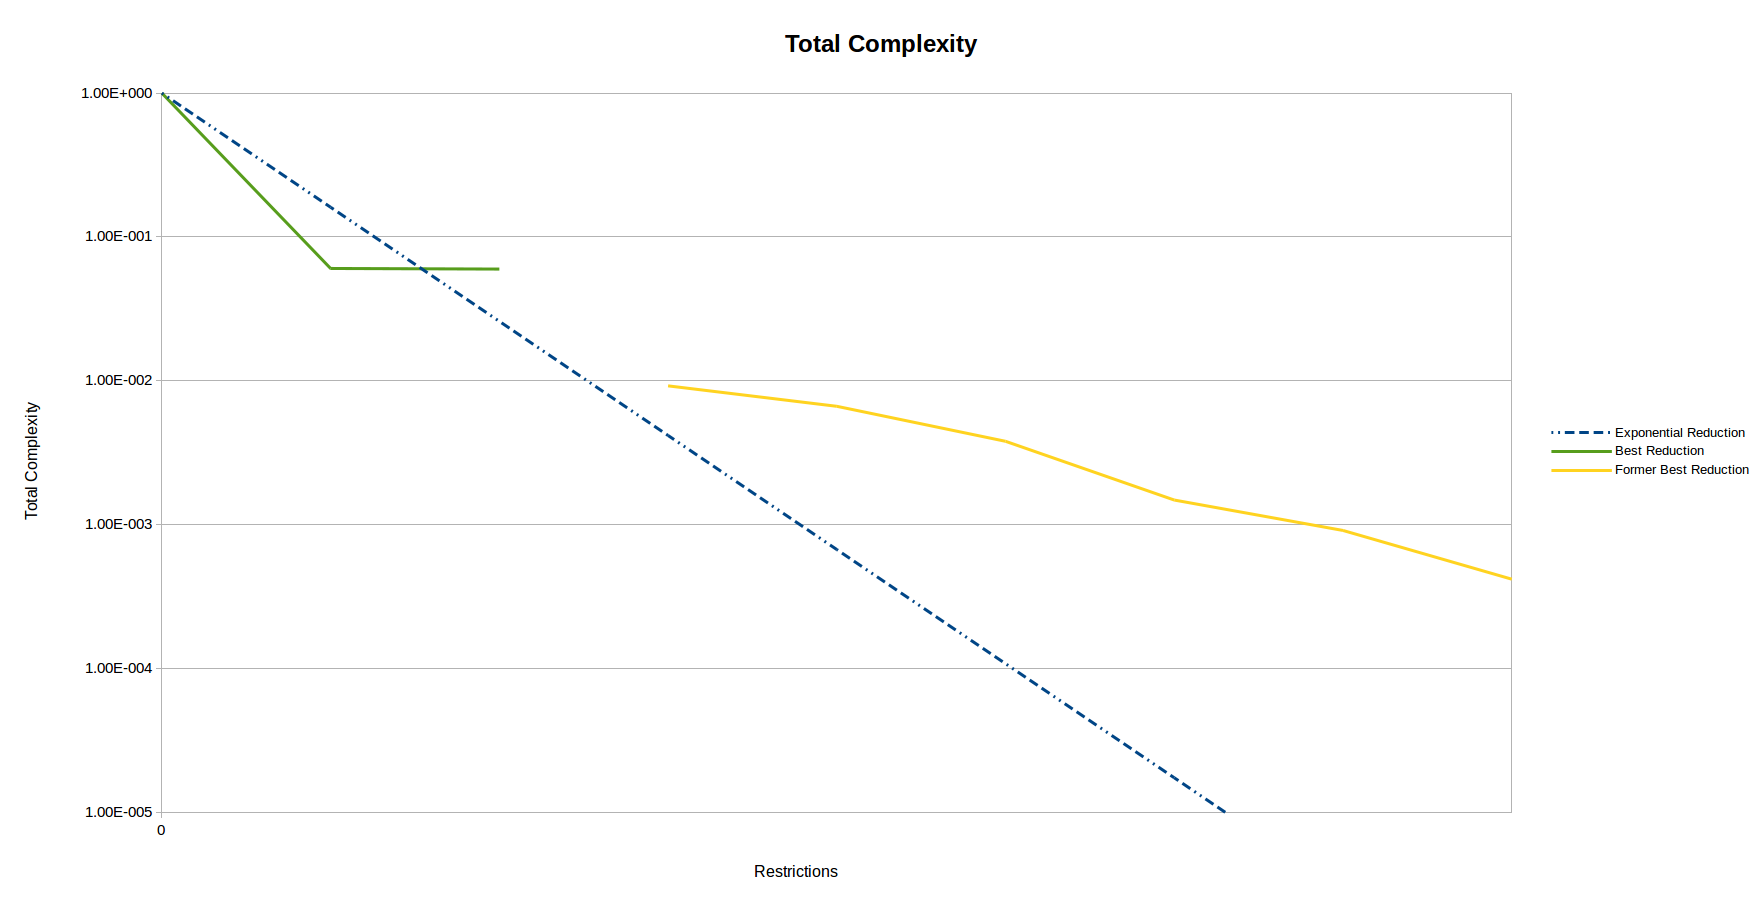
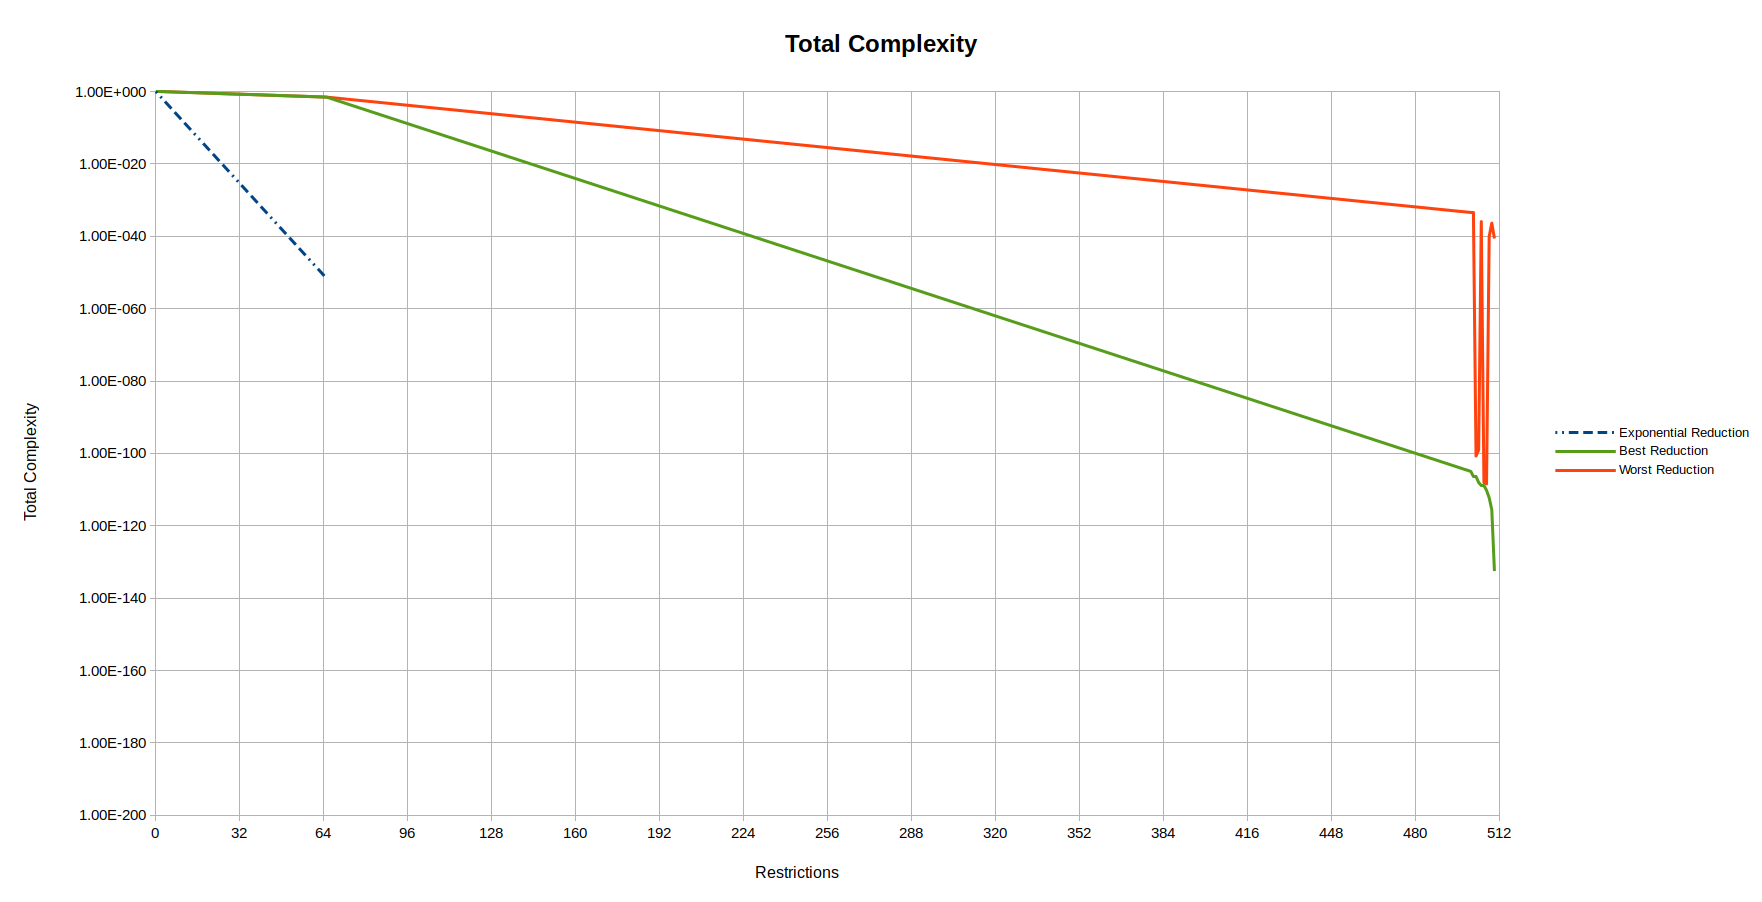
Updated the results page

diff --git a/results/Overview.md b/results/Overview.md
@@ -178,13 +178,26 @@ reduced to 0 for 511 input bits restricted.
 
 Results better than the exponential reduction are marked in bold.
 
-| Restrictions | Exponential Reduction | Best Reduction | Best Restriction |
-|:------------:|:---------------------:|:--------------:| ---------------- |
-|       0      | 2.61×10⁴⁰⁵            | 2.61×10⁴⁰⁵     | [Initial Situation](000/000.md) |
-|       1      | 4.20×10⁴⁰⁴            | (**1.58×10⁴⁰⁴**) | ([E031032](001/e031032.md)) |
-|       2      | 6.76×10⁴⁰³            | (1.56×10⁴⁰⁴)     | ([T002-E031032.md](002/t002_e031032.md)) |
+| Restrictions | Linear Reduction | Best Reduction | Worst Reduction |
+|:------------:|:----------------:|:--------------:|:---------------:|
+| 0 | 2.611×10^405 | 2.611×10^405 | 2.611×10^405 |
+| 1 | 4.202×10^404 | 2.611×10^405 | 2.611×10^405 |
+| 65 | 7.034×10^353 | 7.898×10^403 | 7.898×10^403 |
+| 501 | 8.586×10^7 | 2.732×10^300 | 1.226×10^372 |
+| 502 | 1.382×10^7 | 1.053×10^299 | 9.656×10^371 |
+| 503 | 2.223×10^6 | 8.191×10^298 | 5.002×10^304 |
+| 504 | 3.578×10^5 | 2.341×10^297 | 2.463×10^306 |
+| 505 | 5.758×10^4 | 4.597×10^296 | 3.063×10^369 |
+| 506 | 9.266×10^3 | 3.825×10^296 | 2.296×10^297 |
+| 507 | 1.491×10^3 | 1.631×10^295 | 1.001×10^297 |
+| 508 | 2.400×10^2 | 1.456×10^293 | 2.243×10^365 |
+| 509 | 3.862×10^1 | 6.969×10^289 | 1.167×10^369 |
+| 510 | 6.214×10^0 | 8.145×10^272 | 6.864×10^364 |
+| 511 | 1.000×10^0 | 6.700×10^1 | 9.500×10^1 |
 
 ![Total Complexity](Total_Complexity.png "Total Complexity")
+
+![Total Complexity for 500 Restrictions and More](Total_Complexity_500_or_Higher.png "Total Complexity for 500 Restrictions and More")
 
 ## Number of Operations
 
